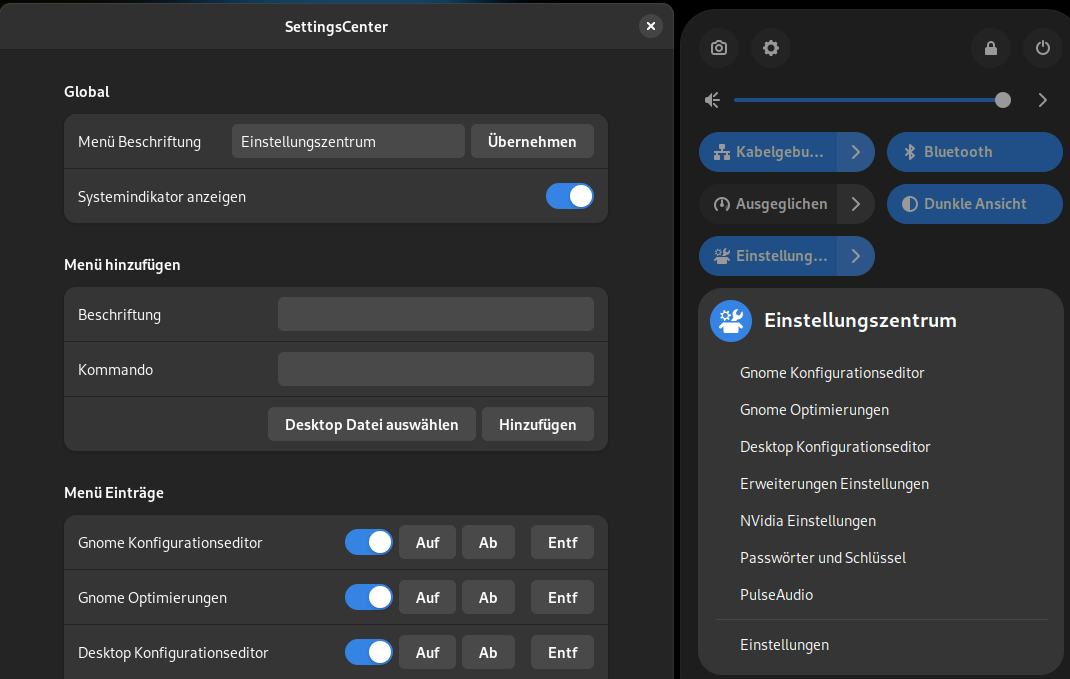
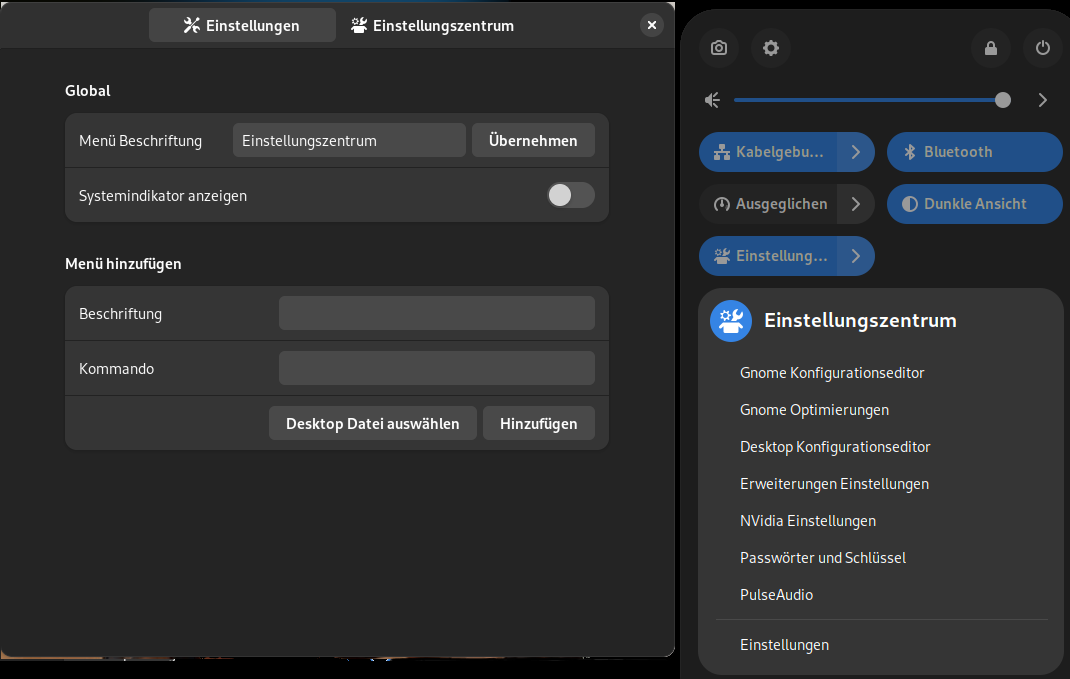
settings dialog 2 pages

diff --git a/SettingsCenter@lauinger-clan.de/prefs.js b/SettingsCenter@lauinger-clan.de/prefs.js
@@ -281,6 +281,7 @@ class AdwPrefs extends Prefs {
         super(schema);
         this._window = window;
         this._page1 = null;
+        this._page2 = null;
         this._group3 = null;
         this.filechoosertarget1 = null;
         this.filechoosertarget2 = null;
@@ -288,13 +289,13 @@ class AdwPrefs extends Prefs {
 
     buildList() {
         if (this._group3 !== null) {
-            this._page1.remove(this._group3);
+            this._page2.remove(this._group3);
         }
 
         this._group3 = Adw.PreferencesGroup.new();
         this._group3.set_title(_("Menu Items"));
         this._group3.set_name("settingscenter_menuitems");
-        this._page1.add(this._group3);
+        this._page2.add(this._group3);
         let items = this._menuItems.getItems();
 
         for (let indexItem in items) {
@@ -347,8 +348,8 @@ class AdwPrefs extends Prefs {
     fillPreferencesWindow() {
         let adwrow;
         this._page1 = Adw.PreferencesPage.new();
-        this._page1.set_title(_("Settings Center"));
-        this._page1.set_name("settingscenter_page");
+        this._page1.set_title(_("Settings"));
+        this._page1.set_name("settingscenter_page1");
         this._page1.set_icon_name("preferences-system-symbolic");
 
         // group1
@@ -450,9 +451,15 @@ class AdwPrefs extends Prefs {
         );
         adwrow.add_suffix(buttonAdd);
         adwrow.activatable_widget = buttonAdd;
+        //page2
+        this._page2 = Adw.PreferencesPage.new();
+        this._page2.set_title(_("Settings Center"));
+        this._page2.set_name("settingscenter_page2");
+        this._page2.set_icon_name("preferences-other-symbolic");
         // group3
         this.buildList();
-        this._window.set_default_size(675, 800);
+        this._window.set_default_size(675, 655);
         this._window.add(this._page1);
+        this._window.add(this._page2);
     }
 }

diff --git a/SettingsCenter@lauinger-clan.de/extension.js b/SettingsCenter@lauinger-clan.de/extension.js
@@ -141,7 +141,7 @@ class SettingsCenter {
 
         this._settingSignals = new Array();
 
-        this._indicator = new SettingsCenterIndicator();
+        this._indicator = new SettingsCenterIndicator(this._settings);
 
         this._settingSignals.push(
             this._settings.connect(
